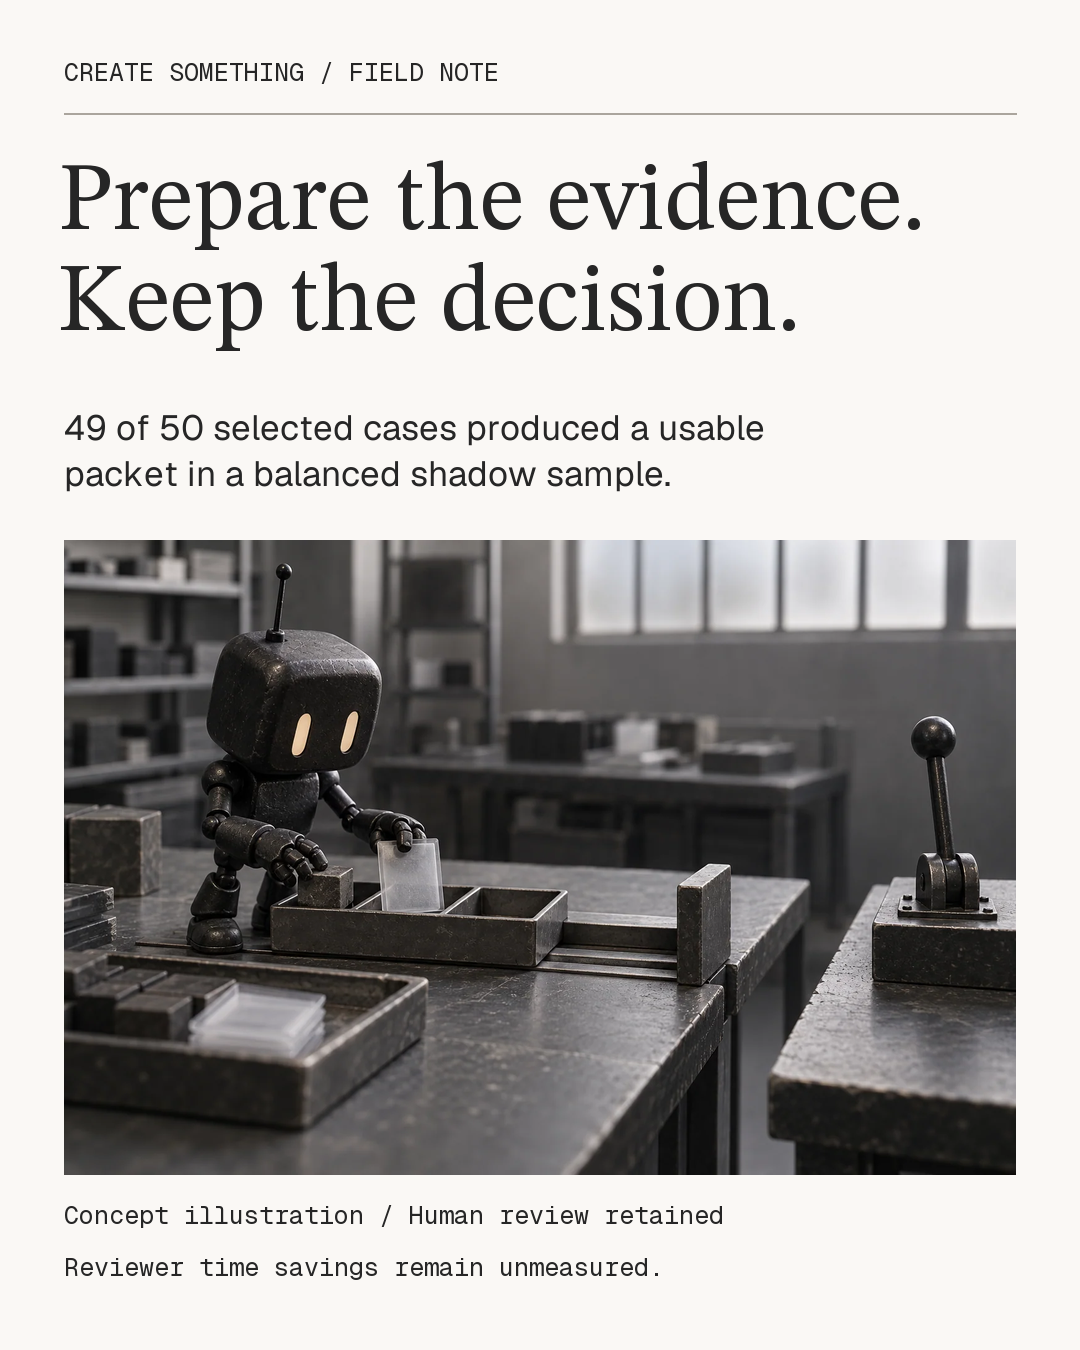
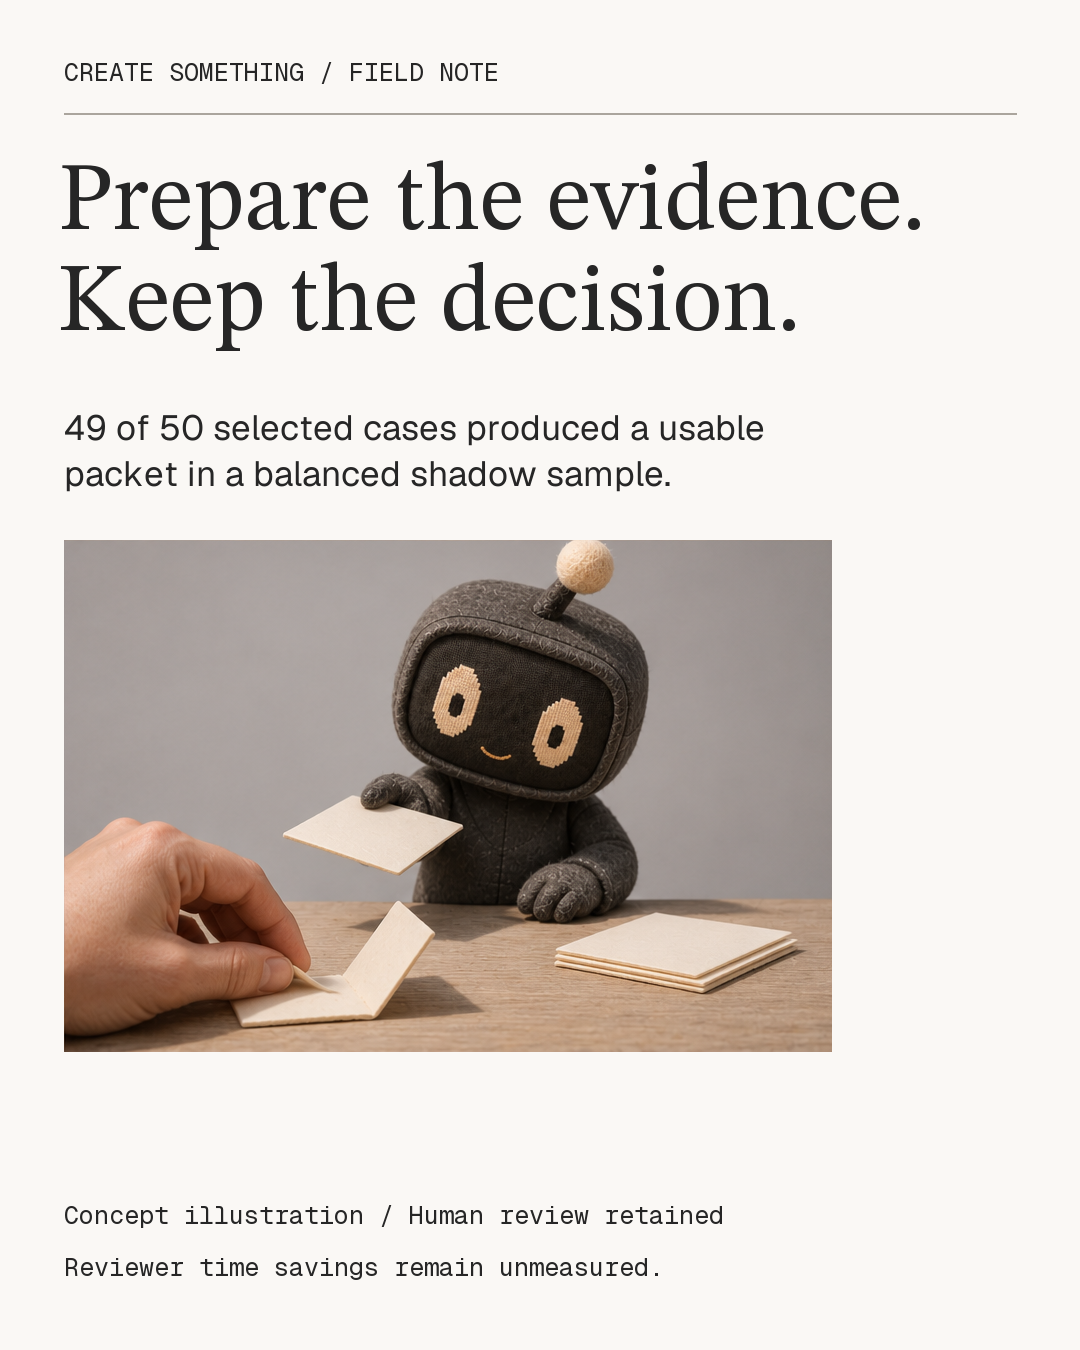
Use the current felt social artwork and check material direction separately

diff --git a/cook-code/wiki-maintainer/evidence/r01/social/render.py b/cook-code/wiki-maintainer/evidence/r01/social/render.py
@@ -8,7 +8,7 @@ from fontTools.ttLib import TTFont
 ROOT = Path(__file__).resolve().parents[5]
 OUT = Path(__file__).resolve().parent
 DESIGN = '18eb4c2ed89e0fe181a292dc76ec232c89e049a3'
-ART = ROOT / 'packages/agency/static/images/agency-stories/editorial-template-review-evidence-trays.webp'
+ART = OUT / 'felt-handoff.png'
 
 def font(path, size):
     data = subprocess.check_output(['git', 'show', f'{DESIGN}:packages/agency/static/{path}.woff2'], cwd=ROOT)
@@ -32,14 +32,11 @@ text(58, 155, 'Prepare the evidence.', serif)
 text(58, 256, 'Keep the decision.', serif)
 text(64, 404, '49 of 50 selected cases produced a usable', body)
 text(64, 450, 'packet in a balanced shadow sample.', body)
-# The editorial artwork was retired from the current Agency tree.
-art_revision = '5f9bfab3f6a9069332d650f42a09f5bd18d806a7'
-art_bytes = subprocess.check_output(['git', 'show', f'{art_revision}:{ART.relative_to(ROOT)}'], cwd=ROOT)
-with Image.open(BytesIO(art_bytes)) as art:
+with Image.open(ART) as art:
     art = art.convert('RGB'); art.thumbnail((952, 635), Image.Resampling.LANCZOS)
     image.paste(art, (64, 540))
 text(64, 1198, 'Concept illustration / Human review retained', mono)
 text(64, 1250, 'Reviewer time savings remain unmeasured.', mono)
 image.save(OUT / 'evidence-before-approval.png')
 image.resize((360,450), Image.Resampling.LANCZOS).save(OUT / 'feed-preview.png')
-(OUT / 'manifest.json').write_text(json.dumps({'design_revision':DESIGN,'artwork':str(ART.relative_to(ROOT)),'artwork_revision':art_revision,'artwork_sha256':hashlib.sha256(art_bytes).hexdigest(),'dimensions':[1080,1350],'status':'local draft; not scheduled or published'}, indent=2)+'\n')
+(OUT / 'manifest.json').write_text(json.dumps({'design_revision':DESIGN,'artwork':str(ART.relative_to(ROOT)),'artwork_sha256':hashlib.sha256(ART.read_bytes()).hexdigest(),'dimensions':[1080,1350],'status':'local draft; not scheduled or published'}, indent=2)+'\n')

diff --git a/cook-code/wiki-maintainer/evidence/r01/social/README.md b/cook-code/wiki-maintainer/evidence/r01/social/README.md
@@ -20,7 +20,7 @@ The accompanying workshop scene is a concept illustration.
 
 ## Alt text
 
-Warm paper card headed “Prepare the evidence. Keep the decision.” It reports usable evidence packets for 49 of 50 selected cases in a balanced shadow sample. A graphite workshop character places a sheet into a sorting tray before a physical stop and a separate lever. The scene is labeled concept illustration. Human review was retained; reviewer time savings remain unmeasured.
+Warm paper card headed “Prepare the evidence. Keep the decision.” It reports usable evidence packets for 49 of 50 selected cases in a balanced shadow sample. A charcoal felt character with cream stitched eyes offers a paper card while a human hand inspects a folded sample on an oak table. The scene is labeled concept illustration. Human review was retained; reviewer time savings remain unmeasured.
 
 ## Sources and decisions
 
@@ -28,7 +28,7 @@ Warm paper card headed “Prepare the evidence. Keep the decision.” It reports
 - Applied create-something-brand-materials skill and its brand-direction, formats-and-delivery, and renderer references. Chose a portrait draft as its default for unspecified format.
 - Read packages/agency/src/routes/field-reports/template-review/+page.svelte; independently checked the public field report on November 22. Both support the sample result and its limits. The post makes no current runtime or business-impact claim.
 - Compared the older local measured-whimsy foundation with the wiki's later adopted editorial revision 18eb4c2ed89e0fe181a292dc76ec232c89e049a3, reading its editorial-runtime.css through git. Used that revision's warm paper, ink, serif and mono treatment. Live field-report text was checked; live visual styling was not independently viewed.
-- Reused owned editorial-template-review-evidence-trays.webp, directly viewed before composition. This scene already makes preparation and the separate decision legible. A new raster scene was unnecessary; the PNG composition is new. Source hash is in manifest.json.
+- The operator corrected the first replay’s use of a retired graphite character. The revised composition uses the reusable teach.png scene from the felt-collage-lessons skill (November 2026). The source is bundled here as felt-handoff.png. Its wool character offers material for a person to inspect. The manifest records the source hash.
 - Read docs/examples/social-gigi/README.md and render.py as the wiki's worked handoff and reproducible typography example. Created a different field-note story, artwork and layout.
 
 ## Reproduce
@@ -42,12 +42,12 @@ python3 -m venv "$social_env"
 "$social_env/bin/python" cook-code/wiki-maintainer/evidence/r01/social/render.py
 ```
 
-The renderer reads the owned artwork and fonts from their pinned Git revisions. It exports evidence-before-approval.png (1080 × 1350), feed-preview.png (360 × 450), and manifest.json.
+The renderer reads the bundled felt artwork and the fonts from their pinned Git revision. It exports evidence-before-approval.png (1080 × 1350), feed-preview.png (360 × 450), and manifest.json.
 
 ## Review status
 
 Functional: renderer asserts text stays within the card and produces the requested dimensions. Claim wording checked against local source and public field report.
 
-Perceptual: passed builder inspection of the actual 1080 × 1350 export and 360 × 450 feed preview. Headline and sample wording are readable; character, sheet, stop and lever remain visible; the concept label and time-saving limit are present without covering artwork. Compared against the pinned editorial colors/type and the owned source scene. Live visual comparison, independent review and human approval remain pending.
+Perceptual: passed builder inspection of the actual 1080 × 1350 export and 360 × 450 feed preview. Headline and sample wording are readable; the felt character, offered card and human hand remain visible; the concept label and time-saving limit are present without covering artwork. Compared against the pinned editorial colors/type and the owned source scene. Independent release review is recorded in the Cook rounds. Human approval of the draft remains pending.
 
 Release: local draft only. Account identity, native upload requirements, final copy/media approval and scheduling time must be settled before publication. No publication permission inferred.

diff --git a/docs/COMPANY_OPERATING_WIKI.md b/docs/COMPANY_OPERATING_WIKI.md
@@ -24,7 +24,7 @@ Start with the project and the current design for the publishing account. A hist
 
 Choose a project with a specific story and a source cleared for the intended audience. GiGi’s public beta walkthrough supplies real frames of a synthetic workspace. For Goldin, the standalone portal’s README identifies private Half Dozen client source and a staging environment. Check the engagement owner’s public-use terms for the specific image and claim before using them in company marketing. [GiGi public walkthroughs](https://createsomething.agency/gigi/beta)
 
-Decide what the reader needs to see. A text-only post can stand on its own. For a claim about a product screen, capture the actual screen, remove private details, and retain the source. For an explanatory field note, compose a new graphic from approved artwork when an existing scene or pose fits. When a different scene is needed, brief the new still against owned character and material references, generate it with OpenAI image generation, then typeset exact claims separately. Use the `create-something-brand-materials` skill for compositions, editable briefs, and export recipes. [Brand direction](CREATE_SOMETHING_MEASURED_WHIMSY_FOUNDATION.md) · [Screenshot workflow](guides/MARKETING_SCREENSHOT_IMAGE_WORKFLOW.md)
+Decide what the reader needs to see. A text-only post can stand on its own. For a claim about a product screen, capture the actual screen, remove private details, and retain the source. For an illustrated company social, use the current felt workshop direction. The `felt-collage-lessons` skill supplies the character reference and reusable scenes: charcoal wool, a stitched face, cream eyes, and a pale wool antenna tip. Compare the finished scene with that reference at feed size. Check the illustration separately from the editorial type and paper color; the retired graphite robot also appears in older, branded assets. A product demonstration can still use an actual screen capture. When a different scene is needed, brief the new still against owned character and material references, generate it with OpenAI image generation, then typeset exact claims separately. Use the `create-something-brand-materials` skill for compositions, editable briefs, and export recipes. [Brand direction](CREATE_SOMETHING_MEASURED_WHIMSY_FOUNDATION.md) · [Screenshot workflow](guides/MARKETING_SCREENSHOT_IMAGE_WORKFLOW.md)
 
 Hand over the channel and account, caption, alt text, final export, editable source, and a note identifying the artwork and the evidence behind the claim. Open the export at full size and at feed size. Can a reader understand the claim and its limits? Are the key words, faces, and gestures visible? Keep the reviewed copy and image together when requesting publication approval. [Example GiGi LinkedIn graphic](examples/social-gigi/gigi-task-review.png) · [Caption, alt text, evidence and editable source](examples/social-gigi/README.md)
 

diff --git a/.agents/skills/wiki-maintainer/SKILL.md b/.agents/skills/wiki-maintainer/SKILL.md
@@ -21,6 +21,6 @@ Preserve the original request, the entry point the operator had, what the agent 
 
 Before the replay, privately write the expected decision, evidence standard, acceptable alternatives and permission boundary. Give a fresh agent the original request, ordinary entry point and authorized delivery scope. Withhold the rubric, correction, chosen example and previous answer. A worked example already visible in the wiki stays visible; require a new decision or artifact to distinguish reuse from copying. If a replay would cause an external effect, exercise the draft or read-only stage unless the actual action is authorized.
 
-Inspect the evidence and the actual deliverable. Can you trace the claim to a current permitted source? Did the agent use the right procedure and stop at the right stage? For visual work, inspect the export at its intended size. Link or projection checks establish document integrity; the task replay establishes whether the guidance worked for this case.
+Inspect the evidence and the actual deliverable. Can you trace the claim to a current permitted source? Did the agent use the right procedure and stop at the right stage? For visual work, inspect the export at its intended size and compare each changed element with its owning reference. A current type treatment can coexist with retired character artwork. Link or projection checks establish document integrity; the task replay establishes whether the guidance worked for this case.
 
 Keep a short receipt in the existing work record: request, starting route, evidence and date, edit or reason for leaving the wiki alone, replay output, verdict and remaining limits. If the agent still guesses, repair the demonstrated gap and replay the affected decision with fresh context. Stop on a passing replay or an identified blocker. If independent replay is unavailable, record it as untested.

diff --git a/cook-code/wiki-maintainer/ROUNDS.md b/cook-code/wiki-maintainer/ROUNDS.md
@@ -18,3 +18,7 @@ Independent Sol 6.1 review passed the wiki route, evidence, scope and directly v
 
[1 lines of base64/hex data omitted]
 Finished 2026-11-22 23:55 UTC.
+
+## Operator correction before merge
+
+The original blind replay failed the illustration check. The reviewer accepted the current typography and missed the retired graphite character. The operator identified felt as the current direction. Replaced the artwork with the owned felt handoff scene, updated alt text and provenance, and separated the illustration check from the typography check in the wiki and maintainer skill. This supersedes Round 1's visual verdict for the originally submitted post.
